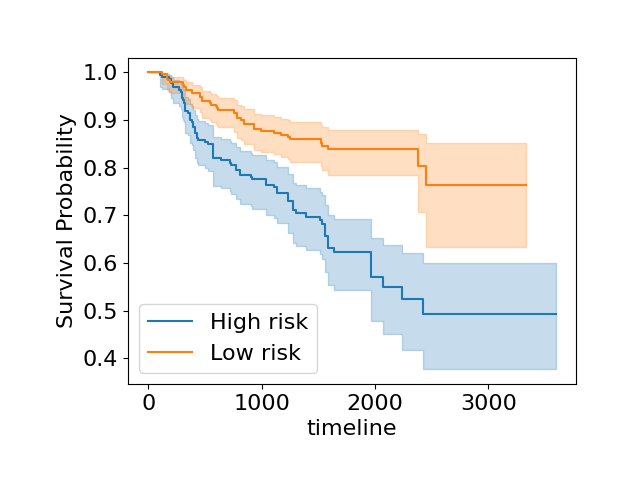
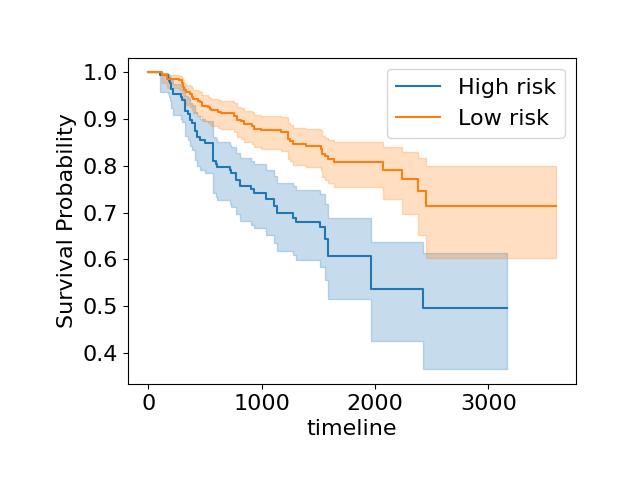
update outcome prediction

diff --git a/analysis/a05_outcome_prediction/m_therapy_response.py b/analysis/a05_outcome_prediction/m_therapy_response.py
@@ -315,7 +315,7 @@ def randomforest(split_idx, tr_X, tr_y, refit, n_jobs):
     ax.axvline(gcv.best_params_["model__max_depth"], c="C1")
     ax.axhline(0.5, color="grey", linestyle="--")
     ax.grid(True)
-    plt.savefig(f"analysis/outcome_prediction/cross_validation_fold{split_idx}.jpg")
+    plt.savefig(f"analysis/a05_outcome_prediction/cross_validation_fold{split_idx}.jpg")
 
     # perform prediction using the best params
     pipe.set_params(**gcv.best_params_)
@@ -363,7 +363,7 @@ def xgboost(split_idx, tr_X, tr_y, refit, n_jobs):
     ax.axvline(gcv.best_params_["model__max_depth"], c="C1")
     ax.axhline(0.5, color="grey", linestyle="--")
     ax.grid(True)
-    plt.savefig(f"analysis/outcome_prediction/cross_validation_fold{split_idx}.jpg")
+    plt.savefig(f"analysis/a05_outcome_prediction/cross_validation_fold{split_idx}.jpg")
 
     # perform prediction using the best params
     pipe.set_params(**gcv.best_params_)
@@ -414,7 +414,7 @@ def logisticregression(split_idx, tr_X, tr_y, refit, n_jobs):
     ax.axvline(gcv.best_params_["model__C"], c="C1")
     ax.axhline(0.5, color="grey", linestyle="--")
     ax.grid(True)
-    plt.savefig(f"analysis/outcome_prediction/cross_validation_fold{split_idx}.jpg")
+    plt.savefig(f"analysis/a05_outcome_prediction/cross_validation_fold{split_idx}.jpg")
 
     # Visualize coefficients of the best estimator
     # best_model = gcv.best_estimator_.named_steps["model"]
@@ -431,7 +431,7 @@ def logisticregression(split_idx, tr_X, tr_y, refit, n_jobs):
     # ax.set_xlabel("coefficient")
     # ax.grid(True)
     # plt.subplots_adjust(left=0.3)
-    # plt.savefig(f"analysis/outcome_prediction/best_coefficients_fold{split_idx}.jpg") 
+    # plt.savefig(f"analysis/a05_outcome_prediction/best_coefficients_fold{split_idx}.jpg") 
 
     # perform prediction using the best params
     pipe.set_params(**gcv.best_params_)
@@ -478,7 +478,7 @@ def svc(split_idx, tr_X, tr_y, refit, n_jobs):
     ax.axvline(gcv.best_params_["model__C"], c="C1")
     ax.axhline(0.5, color="grey", linestyle="--")
     ax.grid(True)
-    plt.savefig(f"analysis/outcome_prediction/cross_validation_fold{split_idx}.jpg")
+    plt.savefig(f"analysis/a05_outcome_prediction/cross_validation_fold{split_idx}.jpg")
 
     # Visualize coefficients of the best estimator
     # best_model = gcv.best_estimator_.named_steps["model"]
@@ -495,7 +495,7 @@ def svc(split_idx, tr_X, tr_y, refit, n_jobs):
     # ax.set_xlabel("coefficient")
     # ax.grid(True)
     # plt.subplots_adjust(left=0.3)
-    # plt.savefig(f"analysis/outcome_prediction/best_coefficients_fold{split_idx}.jpg") 
+    # plt.savefig(f"analysis/a05_outcome_prediction/best_coefficients_fold{split_idx}.jpg") 
 
     # perform prediction using the best params
     pipe.set_params(**gcv.best_params_)
@@ -603,6 +603,7 @@ def outcome_classification(
     model="LR",
     refit="roc_auc",
     feature_selection=True,
+    feature_var_threshold=1e-4,
     n_selected_features=64,
     use_graph_properties=False
     ):
@@ -735,7 +736,7 @@ def outcome_classification(
         # feature selection
         if feature_selection:
             print("Selecting features...")
-            selector = VarianceThreshold(threshold=1e-4)
+            selector = VarianceThreshold(threshold=feature_var_threshold)
             selector.fit(tr_X)
             selected_names = selector.get_feature_names_out().tolist()
             num_removed = len(tr_X.columns) - len(selected_names)
@@ -1308,7 +1309,7 @@ if __name__ == "__main__":
     parser.add_argument('--img_dir', default=None)
     parser.add_argument('--lab_mode', default="expert", choices=["expert", "nnUNet", "BiomedParse"], type=str)
     parser.add_argument('--dataset', default="TCGA", type=str)
-    parser.add_argument('--outcome', default="pcr+subtype", choices=["pcr", "hr", "her2", "pcr+subtype"], type=str)
+    parser.add_argument('--outcome', default="pcr", choices=["pcr", "hr", "her2", "pcr+subtype"], type=str)
     parser.add_argument('--subgroup', default='Overall', choices=["HR+/HER2-", "HER2+", "TNBC", 'Overall'])
     parser.add_argument('--modality', default="MRI", type=str)
     parser.add_argument('--format', default="nifti", choices=["dicom", "nifti"], type=str)
@@ -1321,7 +1322,7 @@ if __name__ == "__main__":
     parser.add_argument('--save_model_dir', default=None)
     parser.add_argument('--slide_mode', default="wsi", choices=["tile", "wsi"], type=str)
     parser.add_argument('--epochs', default=50, type=int)
-    parser.add_argument('--radiomics_mode', default="BiomedParse", choices=["None", "pyradiomics", "SegVol", "BiomedParse", "BayesBP"], type=str)
+    parser.add_argument('--radiomics_mode', default="BayesBP", choices=["None", "pyradiomics", "SegVol", "BiomedParse", "BayesBP"], type=str)
     parser.add_argument('--radiomics_dim', default=512, choices=[851, 768, 512], type=int)
     parser.add_argument('--radiomics_aggregation', default=False, type=bool,
                         help="if radiomic features have not been aggregated yet and true, do spatial aggregation"
@@ -1411,8 +1412,10 @@ if __name__ == "__main__":
     radiomics_aggregation = args.radiomics_aggregation # false if load patient-level features else true
     if None not in (img_paths, save_radiomics_dir):
         img_names = [p.name.replace('.nii.gz', '') for p in img_paths]
-        if args.radiomics_mode == "pyradiomics" or args.radiomics_mode == "BayesBP":
+        if args.radiomics_mode == "pyradiomics":
             radiomics_paths = sorted([save_radiomics_dir / f"{p}_{args.target}_radiomics.json" for p in img_names])
+        elif args.radiomics_mode == "BayesBP":
+            radiomics_paths = sorted([save_radiomics_dir / f"{p}_{args.target}_radiomics_pooled.json" for p in img_names])
         else:
             radiomics_paths = sorted([save_radiomics_dir / f"{p}_{args.target}.json" for p in img_names])
     else:
@@ -1565,7 +1568,8 @@ if __name__ == "__main__":
     if args.radiomics_mode == 'pyradiomics':
         radiomics_keys = ["shape", "firstorder", "glcm", "gldm", "glrlm", "glszm", "ngtdm"]
     elif args.radiomics_mode == 'BayesBP':
-        radiomics_keys = ["n_voxels", "mean", "max", "min", "var", "skewness", "kurtosis", "entropy"]
+        radiomics_keys = ["n_voxels"]
+        # radiomics_keys = ["n_voxels", "mean", "max", "min", "var", "skewness", "kurtosis", "entropy"]
     else:
         radiomics_keys = None
     outcome_classification(
@@ -1578,9 +1582,10 @@ if __name__ == "__main__":
         pathomics_aggregated_mode=args.pathomics_aggregated_mode,
         radiomics_keys=radiomics_keys, #radiomic_propereties,
         pathomics_keys=None, #["TUM", "NORM", "DEB"],
-        model=["RF", "XG", "LR", "SVC"][0],
+        model=["RF", "XG", "LR", "SVC"][3],
         refit=["accuracy", "f1", "roc_auc"][1],
         feature_selection=True,
+        feature_var_threshold=1e-20,
         n_selected_features=128,
         use_graph_properties=False
     )

diff --git a/analysis/a05_outcome_prediction/m_survival_analysis.py b/analysis/a05_outcome_prediction/m_survival_analysis.py
@@ -1696,7 +1696,7 @@ if __name__ == "__main__":
     parser = argparse.ArgumentParser()
     parser.add_argument('--wsi_dir', default=None)
     parser.add_argument('--img_dir', default=None)
-    parser.add_argument('--lab_mode', default="BiomedParse", choices=["expert", "nnUNet", "BiomedParse"], type=str)
+    parser.add_argument('--lab_mode', default="expert", choices=["expert", "nnUNet", "BiomedParse"], type=str)
     parser.add_argument('--dataset', default="TCGA", type=str)
     parser.add_argument('--outcome', default="recurrence", choices=["os", "recurrence"], type=str)
     parser.add_argument('--modality', default="MRI", type=str)
@@ -1710,7 +1710,7 @@ if __name__ == "__main__":
     parser.add_argument('--save_model_dir', default=None)
     parser.add_argument('--slide_mode', default="wsi", choices=["tile", "wsi"], type=str)
     parser.add_argument('--epochs', default=20, type=int)
-    parser.add_argument('--radiomics_mode', default="pyradiomics", choices=["None", "pyradiomics", "SegVol", "BiomedParse"], type=str)
+    parser.add_argument('--radiomics_mode', default="BayesBP", choices=["None", "pyradiomics", "SegVol", "BiomedParse", "BayesBP"], type=str)
     parser.add_argument('--radiomics_dim', default=768, choices=[107, 768, 768], type=int)
     parser.add_argument('--radiomics_aggregation', default=False, type=bool,
                         help="if radiomic features have not been aggregated yet and true, do spatial aggregation"
@@ -1809,6 +1809,8 @@ if __name__ == "__main__":
         img_names = [p.name.replace('.nii.gz', '') for p in img_paths]
         if args.radiomics_mode == "pyradiomics":
             radiomics_paths = sorted([save_radiomics_dir / f"{p}_{args.target}_radiomics.json" for p in img_names])
+        elif args.radiomics_mode == "BayesBP":
+            radiomics_paths = sorted([save_radiomics_dir / f"{p}_{args.target}_radiomics_pooled.json" for p in img_names])
         else:
             radiomics_paths = sorted([save_radiomics_dir / f"{p}_{args.target}.json" for p in img_names])
     else:
@@ -1876,6 +1878,12 @@ if __name__ == "__main__":
     logging.info(f"Number of testing samples: {num_test}.")
 
     # survival analysis from the splits
+    if args.radiomics_mode == 'pyradiomics':
+        radiomics_keys = ["shape", "firstorder", "glcm", "gldm", "glrlm", "glszm", "ngtdm"]
+    elif args.radiomics_mode == 'BayesBP':
+        radiomics_keys = ["n_voxels", "mean", "max", "min", "var", "skewness", "kurtosis", "entropy"]
+    else:
+        radiomics_keys = None
     survival(
         split_path=split_path,
         used=["radiomics", "pathomics", "radiopathomics"][0],
@@ -1884,9 +1892,9 @@ if __name__ == "__main__":
         radiomics_aggregated_mode=args.radiomics_aggregated_mode,
         pathomics_aggregation=pathomics_aggregation,
         pathomics_aggregated_mode=args.pathomics_aggregated_mode,
-        radiomics_keys=None, #radiomic_propereties,
+        radiomics_keys=radiomics_keys, #radiomic_propereties,
         pathomics_keys=None, #["TUM", "NORM", "DEB"],
-        model=["RSF", "CoxPH", "Coxnet", "FastSVM"][3],
+        model=["RSF", "CoxPH", "Coxnet", "FastSVM"][2],
         scorer=["cindex", "cindex-ipcw", "auc", "ibs"][2],
         feature_selection=True,
         n_bootstraps=0,

diff --git a/analysis/a04_feature_aggregation/m_spatial_feature_clustering.py b/analysis/a04_feature_aggregation/m_spatial_feature_clustering.py
@@ -7,6 +7,8 @@ import pathlib
 import logging
 import joblib
 
+logging.basicConfig(level=logging.INFO, format="%(asctime)s [%(levelname)s] %(message)s")
+
 def cluster_radiomic_feature(
         img_paths, 
         feature_mode, 
@@ -46,10 +48,12 @@ def Bayes_radiomics_pooling(feature_path, save_path, n_clusters=3):
     with open(feature_path, 'r') as f:
         data = json.load(f)
 
-    assert len(data['radiomics']) > n_clusters, 'sample size less than the number of clusters'
-    pooled_data = {f"global.{k}": v for k, v in data['radiomics'][0].items() if k != "layer_index"}
-    df = pd.DataFrame(data['radiomics'][1:])
+    df_ori = pd.DataFrame(data['radiomics'][1:])
+    df = df_ori.dropna().reset_index(drop=True)
+    df['layer_index'] = range(len(df))
+    assert len(df) >= n_clusters, 'sample size less than the number of clusters'
 
+    pooled_data = {f"global.{k}": v for k, v in data['radiomics'][0].items() if k != "layer_index"}
 
     # Step 1: Standardize features for clustering (exclude max/min)
     features_for_clustering = ['mean','var','skewness','kurtosis','entropy']
@@ -113,7 +117,7 @@ def cluster_Bayes_BiomedParse_radiomics(img_paths, save_dir, class_name="tumour"
         return
     
     # construct graphs in parallel
-    joblib.Parallel(n_jobs=n_jobs)(
+    joblib.Parallel(n_jobs=n_jobs, backend="threading")(
         joblib.delayed(_feature_clustering)(idx, img_path)
         for idx, img_path in enumerate(img_paths)
     )

diff --git a/analysis/a02_tumor_segmentation/m_tumor_segmentation.py b/analysis/a02_tumor_segmentation/m_tumor_segmentation.py
@@ -96,11 +96,11 @@ def extract_BiomedParse_segmentation(img_paths, text_prompts, save_dir,
     """
 
     # Build model config
-    opt = load_opt_from_config_files([os.path.join(relative_path, "configs/pancia_bayes_inference.yaml")])
+    opt = load_opt_from_config_files([os.path.join(relative_path, "configs/biomedparse_inference.yaml")])
     opt = init_distributed(opt)
 
     # Load model from pretrained weights
-    pretrained_pth = os.path.join(relative_path, 'checkpoints/Bayes_BiomedParse/Bayes_PanCancer_LoRA')
+    pretrained_pth = os.path.join(relative_path, 'checkpoints/BiomedParse/PanCancer_LoRA')
     # pretrained_pth = os.path.join(relative_path, 'checkpoints/Bayes_BiomedParse/Bayes_PanCancer/model_state_dict.pt')
 
     if device == 'gpu':

diff --git a/analysis/a03_feature_extraction/m_radiomics_extraction.py b/analysis/a03_feature_extraction/m_radiomics_extraction.py
@@ -90,13 +90,13 @@ if __name__ == "__main__":
     from analysis.a04_feature_aggregation.m_spatial_feature_clustering import cluster_radiomic_feature 
 
     cluster_radiomic_feature(
-        img_paths=img_paths[:1], 
+        img_paths=img_paths, 
         feature_mode=args.feature_mode, 
         save_dir=save_feature_dir, 
         class_name=args.target,
         n_clusters=3,
         n_jobs=32,
-        skip_exist=True
+        skip_exist=False
     )
 
     # construct image graph
